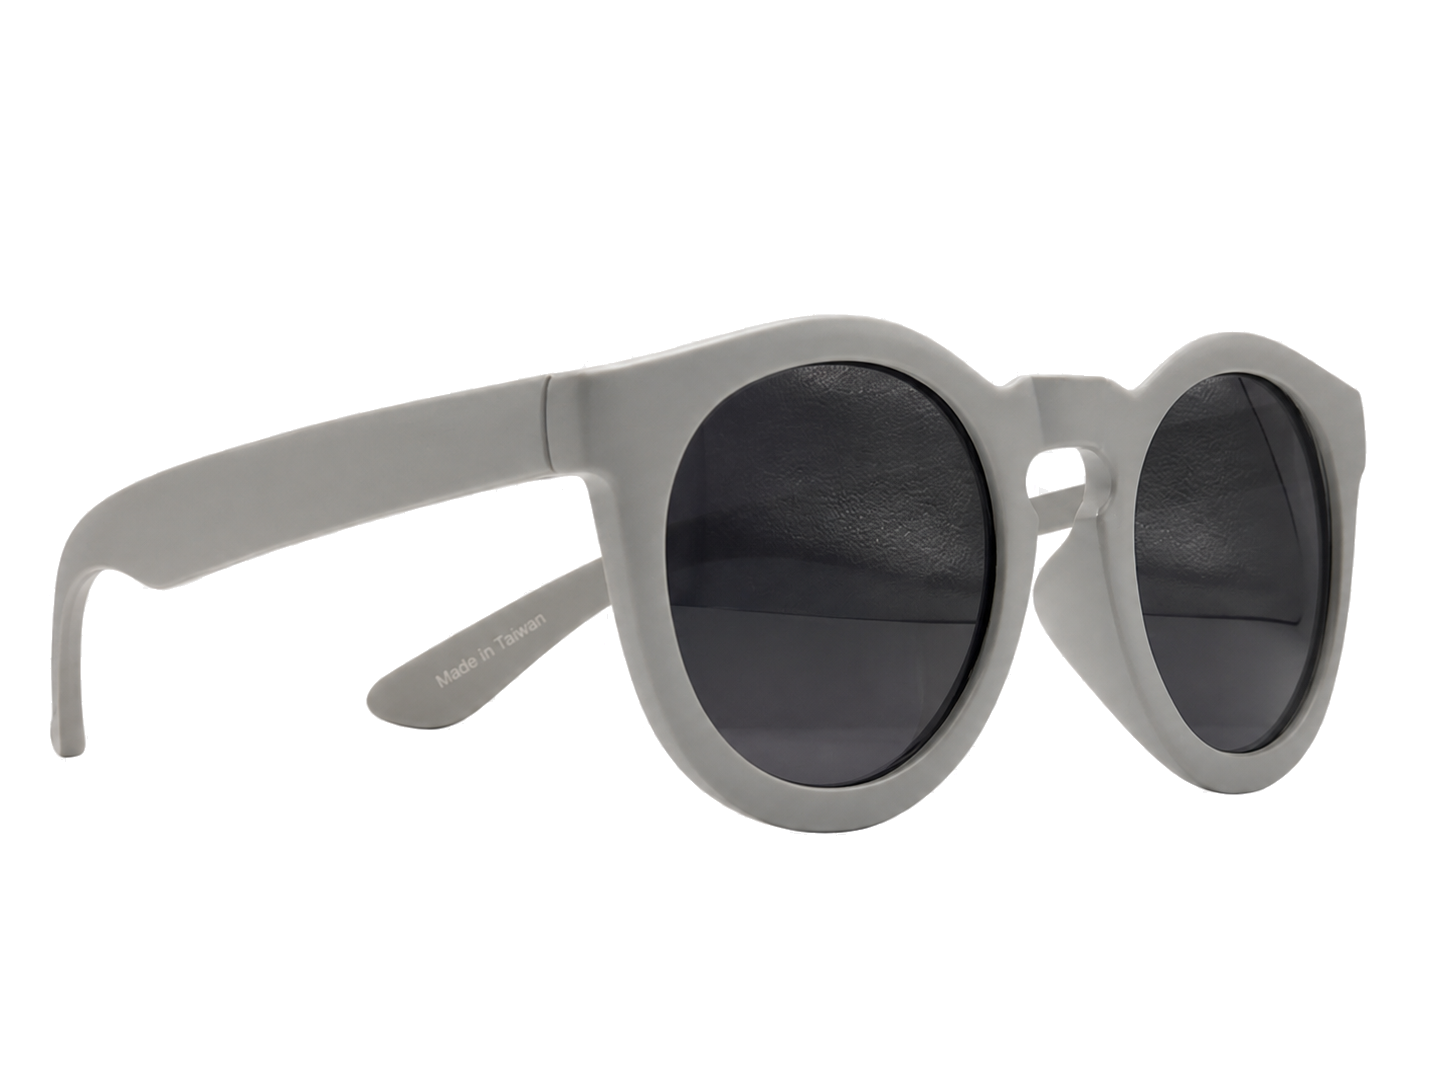
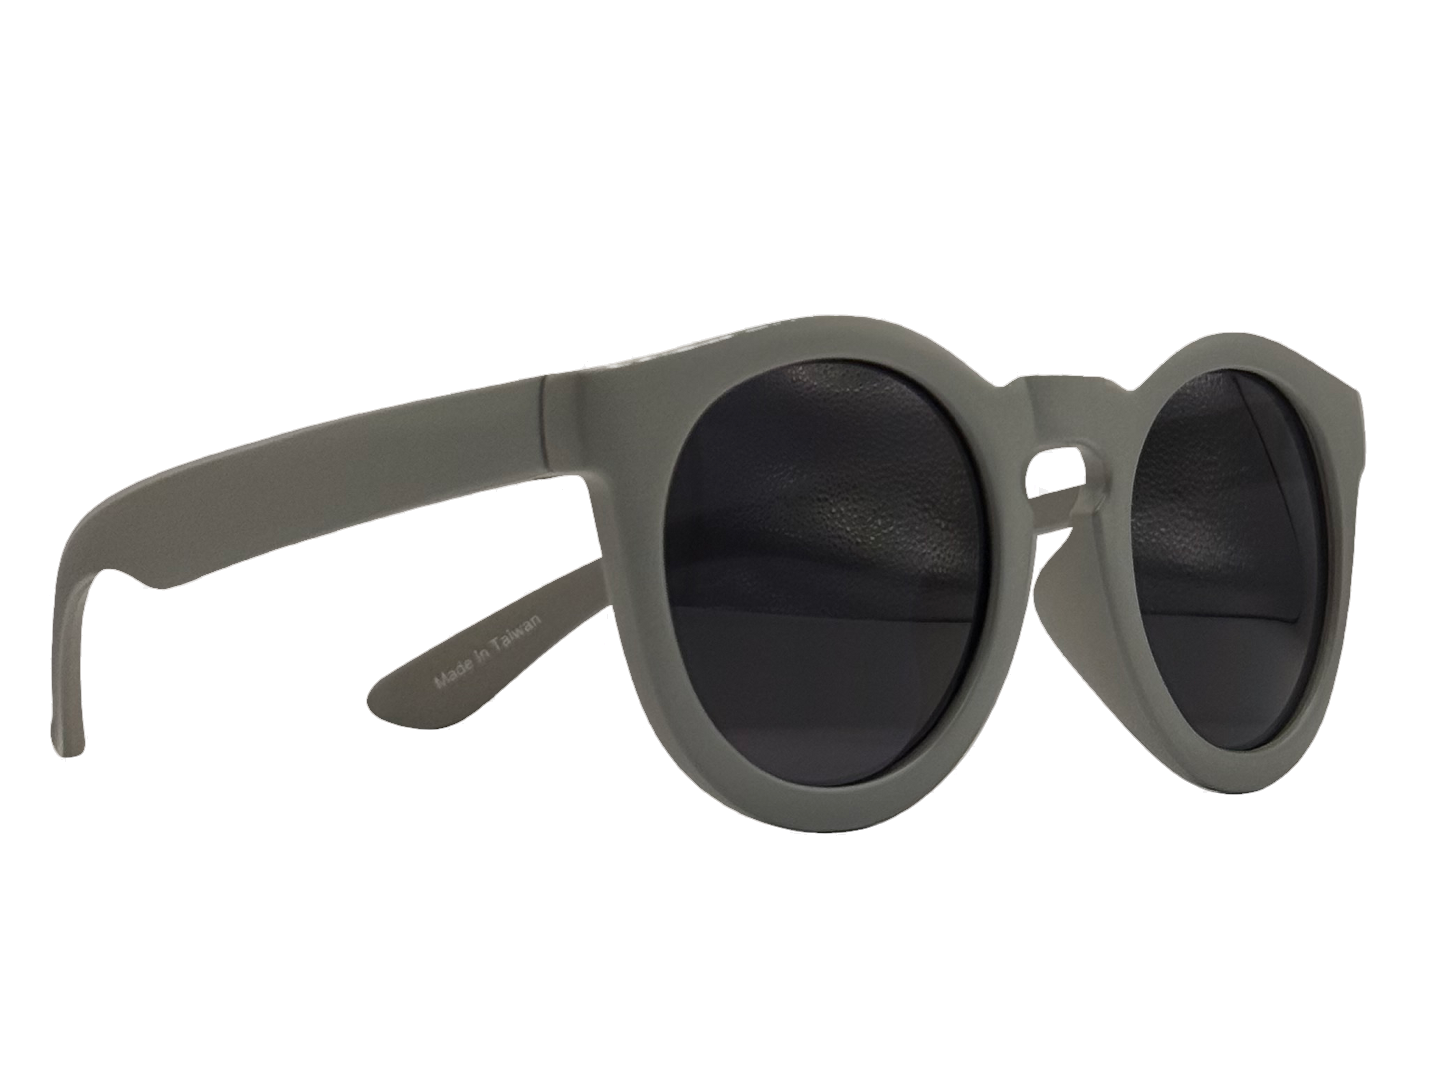
Calibrate simulator colors from product photography

Changed region(s): [[0.0311, 0.2735, 0.9634, 0.7901]]

diff --git a/index.html b/index.html
@@ -90,12 +90,8 @@
                 <feGaussianBlur stdDeviation="1.5"></feGaussianBlur>
               </filter>
               <filter id="photo-a45-crisp-color" x="-2%" y="-2%" width="104%" height="104%" color-interpolation-filters="sRGB">
-                <feColorMatrix type="saturate" values="1.08"></feColorMatrix>
                 <feComponentTransfer>
-                  <feFuncR type="linear" slope="1.06" intercept="-.025"></feFuncR>
-                  <feFuncG type="linear" slope="1.06" intercept="-.025"></feFuncG>
-                  <feFuncB type="linear" slope="1.06" intercept="-.025"></feFuncB>
-                  <feFuncA type="linear" slope="1.35" intercept="-.16"></feFuncA>
+                  <feFuncA type="linear" slope="1.18" intercept="-.09"></feFuncA>
                 </feComponentTransfer>
               </filter>
               <filter id="photo-a45-lens-texture" x="-2%" y="-2%" width="104%" height="104%" color-interpolation-filters="sRGB">
@@ -108,7 +104,7 @@
               </filter>
             </defs>
             <g mask="url(#photo-a45-temple-mask)">
-              <image class="photo-temple-image" href="assets/photos/right-a45/IMG_3594.png" filter="url(#photo-a45-crisp-color)"></image>
+              <image class="photo-temple-image" href="assets/photos/right-a45/IMG_3594.png?v=20260827d" filter="url(#photo-a45-crisp-color)"></image>
             </g>
             <g class="photo-blue-light-effect" clip-path="url(#photo-a45-clear-lens-clip)" hidden>
               <g id="photo-a45-rear-temple" opacity=".38" filter="url(#photo-a45-rear-temple-soft)">
@@ -116,12 +112,12 @@
                 <path d="M1026 228 C1065 244 1081 276 1087 322 C1093 373 1080 438 1046 512 C1027 498 1015 484 1010 474 C995 429 996 365 1004 318 C1009 282 1017 250 1026 228Z"></path>
                 <path d="M1248 208 C1317 193 1389 191 1454 190 L1456 270 C1395 270 1323 286 1248 307Z"></path>
               </g>
-              <image class="photo-blue-light-source-image" href="assets/photos/right-a45/IMG_3594.png" opacity=".24" filter="url(#photo-a45-lens-texture)"></image>
+              <image class="photo-blue-light-source-image" href="assets/photos/right-a45/IMG_3594.png?v=20260827d" opacity=".24" filter="url(#photo-a45-lens-texture)"></image>
               <rect class="photo-blue-light-coating" x="700" y="80" width="850" height="520" fill="url(#photo-a45-clear-coating)"></rect>
               <rect class="photo-blue-light-sheen" x="700" y="80" width="850" height="520" fill="url(#photo-a45-blue-light-sheen)"></rect>
             </g>
             <g class="photo-frame-layer" mask="url(#photo-a45-frame-mask)">
-              <image class="photo-frame-image" href="assets/photos/right-a45/IMG_3594.png" filter="url(#photo-a45-crisp-color)"></image>
+              <image class="photo-frame-image" href="assets/photos/right-a45/IMG_3594.png?v=20260827d" filter="url(#photo-a45-crisp-color)"></image>
             </g>
             <g id="photo-engravetext" class="photo-print-layer" transform="translate(390 260) rotate(-17)">
               <text font-family="BaksoSapi, Arial, sans-serif" font-size="38" font-weight="700">PEIYU</text>
@@ -315,6 +311,6 @@
   </footer>
 
   <div class="sr-only" id="live-status" role="status" aria-live="polite"></div>
-  <script src="app.js?v=20260827c" defer></script>
+  <script src="app.js?v=20260827d" defer></script>
 </body>
 </html>

diff --git a/app.js b/app.js
@@ -1,26 +1,28 @@
 const FRAME_COLORS = [
-  // Screen-preview midtones calibrated from the 2026 front-view product photos.
-  { name: "櫻花粉", value: "#e8b4bf" },
-  { name: "粉紫", value: "#c3b3c8" },
-  { name: "暖黃", value: "#d5c452" },
-  { name: "豆綠", value: "#919871" },
-  { name: "深藍", value: "#2b4261" },
-  { name: "復刻粉", value: "#c87da9" },
-  { name: "芋頭紫", value: "#b48bbe" },
-  { name: "奶油黃", value: "#ddaa5b" },
-  { name: "薄荷綠", value: "#658987" },
-  { name: "丹寧藍", value: "#506799" },
-  { name: "梅子", value: "#a77c90" },
-  { name: "奶茶", value: "#ddb89d" },
-  { name: "青釉綠", value: "#485b50" },
-  { name: "天藍", value: "#2285ac" },
-  { name: "玫瑰", value: "#9c5354" },
-  { name: "咖啡牛奶", value: "#8f8079" },
-  { name: "枯黃", value: "#9c8d6c" },
-  { name: "霧面黑", value: "#0f0f10" },
-  { name: "灰色", value: "#717171" },
-  { name: "咖啡紅茶", value: "#834c4c" },
-  { name: "霧面白", value: "#ffffff" },
+  // sRGB midtones calibrated from the 2026 round-frame catalog. The two pale
+  // pinks use a neutral point inside the photographed range so a flat 2D fill
+  // does not appear more orange or saturated than the real material.
+  { name: "櫻花粉", value: "#dfb4bc" },
+  { name: "粉紫", value: "#c3b4c7" },
+  { name: "暖黃", value: "#cdbe54" },
+  { name: "豆綠", value: "#8f9570" },
+  { name: "深藍", value: "#2a4360" },
+  { name: "復刻粉", value: "#be77a1" },
+  { name: "芋頭紫", value: "#af89b7" },
+  { name: "奶油黃", value: "#d6a75a" },
+  { name: "薄荷綠", value: "#638785" },
+  { name: "丹寧藍", value: "#4e6494" },
+  { name: "梅子", value: "#a3788c" },
+  { name: "奶茶", value: "#d7b8a4" },
+  { name: "青釉綠", value: "#465a4f" },
+  { name: "天藍", value: "#2c83a6" },
+  { name: "玫瑰", value: "#965052" },
+  { name: "咖啡牛奶", value: "#8e7f78" },
+  { name: "枯黃", value: "#9a8b6a" },
+  { name: "霧面黑", value: "#272928" },
+  { name: "灰色", value: "#747474" },
+  { name: "咖啡紅茶", value: "#7e4b4b" },
+  { name: "霧面白", value: "#e5e5e3" },
   { name: "琥珀", type: "pattern", value: "amber", thumb: "amber.png" }
 ];
 
@@ -78,16 +80,19 @@ const VIEW_FILES = {
   a45: "a45.svg"
 };
 
+const PHOTO_ASSET_VERSION = "20260827d";
+
 function rightPhoto(file, width, height, alignment, nearLens, farLens) {
   return {
-    a45: `assets/photos/right-a45/${file}`,
+    a45: `assets/photos/right-a45/${file}?v=${PHOTO_ASSET_VERSION}`,
     canvas: { width, height },
     alignment,
     lenses: { near: nearLens, far: farLens }
   };
 }
 
-// Right 45-degree product photos. The files remain untouched. Alignment uses
+// Right 45-degree product photos, restored from the camera's Display P3 JPEGs
+// into web-safe sRGB while retaining the supplied transparent edges. Alignment uses
 // [near-frame X, near top Y, near bottom Y, far-frame X, far-frame Y] landmarks.
 // Each final pair is the fitted canonical [cx, cy, rx, ry, rotation] lens edge.
 // The anti-blue-light coating extends just beyond it to cover the photographed

diff --git a/tests/color-palette.contract.test.js b/tests/color-palette.contract.test.js
@@ -1,0 +1,68 @@
+"use strict";
+
+const assert = require("node:assert/strict");
+const fs = require("node:fs");
+const path = require("node:path");
+
+const root = path.join(__dirname, "..");
+const appSource = fs.readFileSync(path.join(root, "app.js"), "utf8");
+const legacySource = fs.readFileSync(path.join(root, "legacy", "index.html"), "utf8");
+
+const expectedPalette = [
+  ["櫻花粉", "#dfb4bc"],
+  ["粉紫", "#c3b4c7"],
+  ["暖黃", "#cdbe54"],
+  ["豆綠", "#8f9570"],
+  ["深藍", "#2a4360"],
+  ["復刻粉", "#be77a1"],
+  ["芋頭紫", "#af89b7"],
+  ["奶油黃", "#d6a75a"],
+  ["薄荷綠", "#638785"],
+  ["丹寧藍", "#4e6494"],
+  ["梅子", "#a3788c"],
+  ["奶茶", "#d7b8a4"],
+  ["青釉綠", "#465a4f"],
+  ["天藍", "#2c83a6"],
+  ["玫瑰", "#965052"],
+  ["咖啡牛奶", "#8e7f78"],
+  ["枯黃", "#9a8b6a"],
+  ["霧面黑", "#272928"],
+  ["灰色", "#747474"],
+  ["咖啡紅茶", "#7e4b4b"],
+  ["霧面白", "#e5e5e3"],
+  ["琥珀", "amber", "pattern"]
+];
+
+function parsePalette(source, startPattern, endPattern) {
+  const start = source.search(startPattern);
+  const tail = source.slice(start);
+  const end = tail.search(endPattern);
+  assert.ok(start >= 0 && end > 0, "palette source block must exist");
+  return [...tail.slice(0, end).matchAll(
+    /\{ name: "([^"]+)", (?:(type): "pattern", )?value: "([^"]+)"/g
+  )].map(([, name, patternType, value]) => patternType
+    ? [name, value, "pattern"]
+    : [name, value]);
+}
+
+const appPalette = parsePalette(appSource, /const FRAME_COLORS = \[/, /const TEMPLE_COLORS/);
+const legacyPalette = parsePalette(legacySource, /const COLORS = \[/, /const LENSES/);
+
+assert.deepEqual(appPalette, expectedPalette, "main 2D palette must match the calibrated catalog midtones");
+assert.deepEqual(legacyPalette, expectedPalette, "legacy and main 2D palettes must not drift");
+assert.match(appSource, /const TEMPLE_COLORS = FRAME_COLORS\.map\(color => \(\{ \.\.\.color \}\)\);/);
+
+for (const retired of ["茶色", "狼棕", "橙黃"]) {
+  assert.doesNotMatch(appSource, new RegExp(`name: "${retired}"`));
+  assert.doesNotMatch(legacySource, new RegExp(`name: "${retired}"`));
+}
+
+for (const [name] of expectedPalette) {
+  assert.match(
+    appSource,
+    new RegExp(`"${name}"\\s*:\\s*rightPhoto\\(`),
+    `${name} must retain a matching right-45 photo registration`
+  );
+}
+
+console.log("Color palette contract passed: catalog-calibrated 22-color parity.");

diff --git a/legacy/index.html b/legacy/index.html
@@ -165,27 +165,27 @@
   <script>
     const SVG_NS = "http://www.w3.org/2000/svg";
     const COLORS = [
-      { name: "櫻花粉", value: "#e8b4bf" },
-      { name: "粉紫", value: "#c3b3c8" },
-      { name: "暖黃", value: "#d5c452" },
-      { name: "豆綠", value: "#919871" },
-      { name: "深藍", value: "#2b4261" },
-      { name: "復刻粉", value: "#c87da9" },
-      { name: "芋頭紫", value: "#b48bbe" },
-      { name: "奶油黃", value: "#ddaa5b" },
-      { name: "薄荷綠", value: "#658987" },
-      { name: "丹寧藍", value: "#506799" },
-      { name: "梅子", value: "#a77c90" },
-      { name: "奶茶", value: "#ddb89d" },
-      { name: "青釉綠", value: "#485b50" },
-      { name: "天藍", value: "#2285ac" },
-      { name: "玫瑰", value: "#9c5354" },
-      { name: "咖啡牛奶", value: "#8f8079" },
-      { name: "枯黃", value: "#9c8d6c" },
-      { name: "霧面黑", value: "#0f0f10" },
-      { name: "灰色", value: "#717171" },
-      { name: "咖啡紅茶", value: "#834c4c" },
-      { name: "霧面白", value: "#ffffff" },
+      { name: "櫻花粉", value: "#dfb4bc" },
+      { name: "粉紫", value: "#c3b4c7" },
+      { name: "暖黃", value: "#cdbe54" },
+      { name: "豆綠", value: "#8f9570" },
+      { name: "深藍", value: "#2a4360" },
+      { name: "復刻粉", value: "#be77a1" },
+      { name: "芋頭紫", value: "#af89b7" },
+      { name: "奶油黃", value: "#d6a75a" },
+      { name: "薄荷綠", value: "#638785" },
+      { name: "丹寧藍", value: "#4e6494" },
+      { name: "梅子", value: "#a3788c" },
+      { name: "奶茶", value: "#d7b8a4" },
+      { name: "青釉綠", value: "#465a4f" },
+      { name: "天藍", value: "#2c83a6" },
+      { name: "玫瑰", value: "#965052" },
+      { name: "咖啡牛奶", value: "#8e7f78" },
+      { name: "枯黃", value: "#9a8b6a" },
+      { name: "霧面黑", value: "#272928" },
+      { name: "灰色", value: "#747474" },
+      { name: "咖啡紅茶", value: "#7e4b4b" },
+      { name: "霧面白", value: "#e5e5e3" },
       { name: "琥珀", type: "pattern", value: "amber" }
     ];
     const LENSES = [

diff --git a/tests/right-photo-assets.contract.test.js b/tests/right-photo-assets.contract.test.js
@@ -212,10 +212,16 @@ const defaultPhotoFile = defaultPhotoRegistration[2].replace(".", "\\.");
 ["photo-temple-image", "photo-frame-image", "photo-blue-light-source-image"].forEach(className => {
   assert.match(
     htmlSource,
-    new RegExp(`<image class="${className}" href="assets/photos/right-a45/${defaultPhotoFile}"`),
-    `${className} must initialize from the registered default photo`
+    new RegExp(`<image class="${className}" href="assets/photos/right-a45/${defaultPhotoFile}\\?v=20260827d"`),
+    `${className} must initialize from the current registered default photo`
   );
 });
+assert.match(appSource, /const PHOTO_ASSET_VERSION = "20260827d";/);
+assert.match(
+  appSource,
+  /a45: `assets\/photos\/right-a45\/\$\{file\}\?v=\$\{PHOTO_ASSET_VERSION\}`/,
+  "every selected photo needs the same cache-busting asset version"
+);
 assert.match(appSource, /frame:\s*FRAME_COLORS\[0\]/);
 assert.match(appSource, /temple:\s*TEMPLE_COLORS\[0\]/);
 assert.match(htmlSource, /class="photo-blue-light-effect"/, "anti-blue-light must use a clean lens-only effect");
@@ -239,6 +245,17 @@ assert.match(
   "clear lenses must retain a subtle photographic texture instead of becoming empty holes"
 );
 assert.match(htmlSource, /id="photo-a45-crisp-color"/, "photo colors need a crisp alpha and contrast filter");
+const crispColorFilterBlock = htmlElementBlock("filter", "photo-a45-crisp-color");
+assert.doesNotMatch(
+  crispColorFilterBlock,
+  /<feColorMatrix\b|<feFunc[RGB]\b/,
+  "the shared edge filter must not recolor calibrated source photos"
+);
+assert.match(
+  crispColorFilterBlock,
+  /<feFuncA type="linear" slope="1\.18" intercept="-\.09"><\/feFuncA>/,
+  "the shared photo filter may tighten only the transparent edge"
+);
 assert.match(
   htmlSource,
   /class="photo-temple-image"[^>]*filter="url\(#photo-a45-crisp-color\)"[\s\S]*?class="photo-frame-image"[^>]*filter="url\(#photo-a45-crisp-color\)"/,
